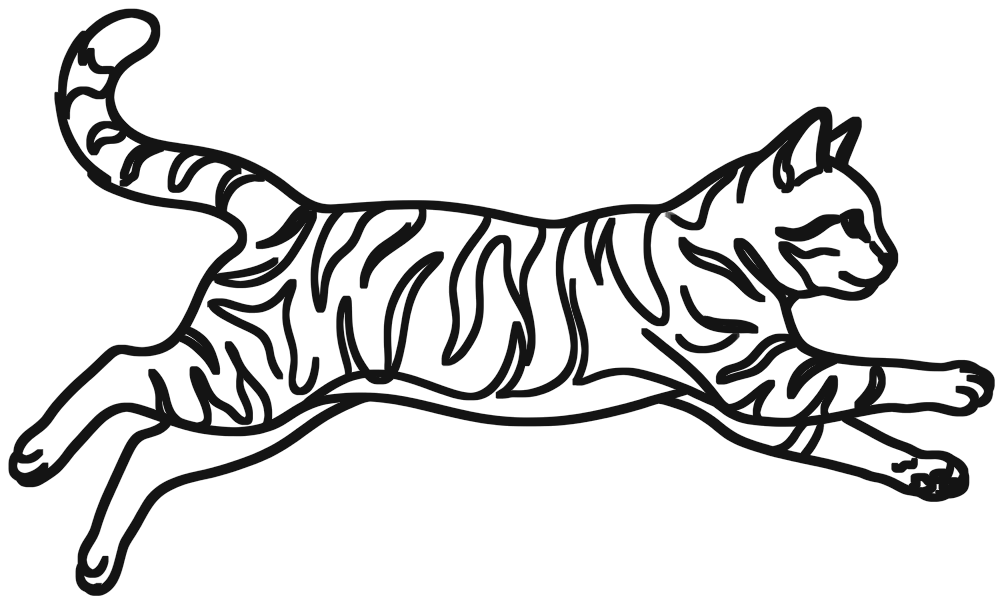
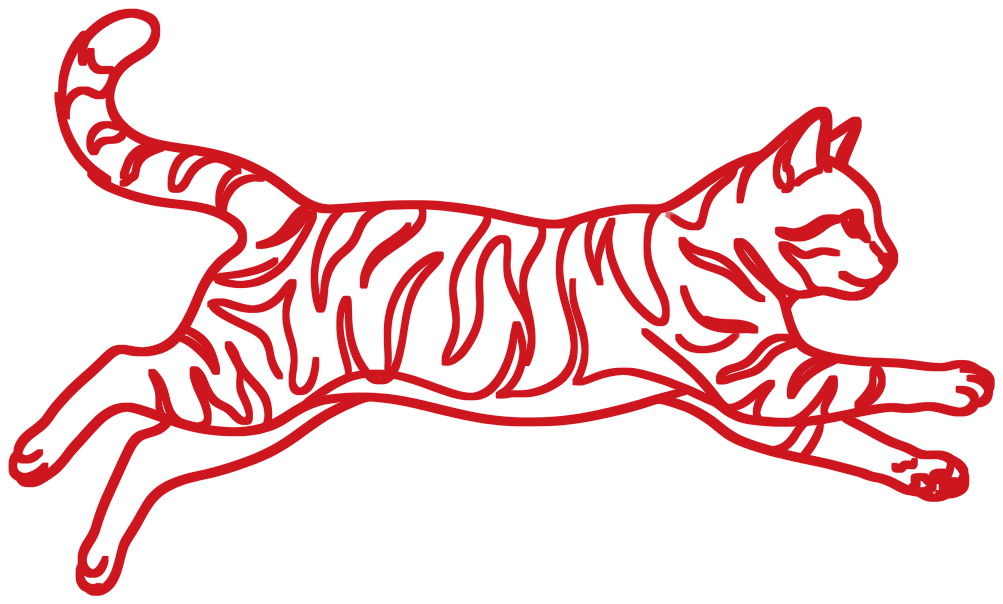
v130: two red drawings either side of the welcome card
- Keepy-ups on the left, shoulder press on the right
- FIFA and the Bullet removed
- Strokes back to the cloud's red

Claude-Session: https://claude.ai/code/session_013G15fzCMwgXvJexXZMdXm4

Changed region(s): [[0.0, 0.0, 1.0, 0.9834]]

diff --git a/index.html b/index.html
@@ -24,11 +24,11 @@
   <meta property="og:image:height" content="630">
   <meta property="og:image:alt" content="Sijo Joseph, product, UX and AI designer, with four case study covers">
   <meta name="twitter:card" content="summary_large_image">
-  <script src="update.js?v=129"></script>
-  <script src="gate.js?v=129"></script>
-  <link href="fonts/fonts.css?v=129" rel="stylesheet">
-  <link rel="stylesheet" href="styles.css?v=129">
-  <link rel="stylesheet" href="reader.css?v=129">
+  <script src="update.js?v=130"></script>
+  <script src="gate.js?v=130"></script>
+  <link href="fonts/fonts.css?v=130" rel="stylesheet">
+  <link rel="stylesheet" href="styles.css?v=130">
+  <link rel="stylesheet" href="reader.css?v=130">
   <script type="importmap">
   {
     "imports": {
@@ -42,10 +42,10 @@
   <link rel="modulepreload" href="vendor/three/examples/jsm/loaders/GLTFLoader.js">
   <link rel="modulepreload" href="vendor/three/examples/jsm/controls/OrbitControls.js">
   <link rel="modulepreload" href="vendor/three/examples/jsm/libs/meshopt_decoder.module.js">
-  <link rel="modulepreload" href="main.js?v=129">
-  <link rel="modulepreload" href="sound.js?v=129">
-  <link rel="modulepreload" href="room-utils.js?v=129">
-  <link rel="modulepreload" href="cat.js?v=129">
+  <link rel="modulepreload" href="main.js?v=130">
+  <link rel="modulepreload" href="sound.js?v=130">
+  <link rel="modulepreload" href="room-utils.js?v=130">
+  <link rel="modulepreload" href="cat.js?v=130">
   <script type="application/ld+json">{"@context": "https://schema.org", "@type": "Person", "name": "Sijo Joseph", "url": "https://sijo.work/", "jobTitle": "Product, UX and AI designer", "alumniOf": {"@type": "CollegeOrUniversity", "name": "National Institute of Design, Bengaluru"}, "address": {"@type": "PostalAddress", "addressLocality": "Bengaluru", "addressCountry": "IN"}, "sameAs": ["https://www.linkedin.com/in/sijodesign", "https://github.com/sijojoseph7509-a11y"], "knowsAbout": ["Product design", "UX design", "Interaction design", "Information design", "Wayfinding", "Brand identity", "AI-assisted prototyping"]}</script>
 </head>
 <body>
@@ -88,34 +88,19 @@
 
   <!-- Loader -->
   <div class="loader" id="loader">
-    <!-- Sijo and Shea in near-black ink (Figma AI, line only) with red accents that echo the cloud's handwriting, animated in CSS around the welcome card -->
+    <!-- Sijo (keepy-ups left, shoulder press right) and Shea, in the red ink of the cloud's handwriting (Figma AI, line only), animated in CSS around the welcome card -->
     <div class="wl-ill wl-juggle" aria-hidden="true">
       <img src="assets/welcome/juggle.webp" alt="" width="707" height="1104" decoding="async">
-      <svg viewBox="0 0 707 1104"><g class="wl-kick" stroke="#CE161E" stroke-width="6" stroke-linecap="round"><path d="M512,690 l-26,6 M518,714 l-28,14 M622,686 l26,-8"/></g><g class="wl-ball"><g class="wl-spin"><circle r="54" fill="none" stroke="#141414" stroke-width="6.8"/><path d="M0,-18.9 L18.0,-5.8 L11.1,15.3 L-11.1,15.3 L-18.0,-5.8 Z" fill="#CE161E"/><path d="M0,-18.9 V-49.7 M18.0,-5.8 L47.0,-15.1 M11.1,15.3 L28.6,41.6 M-11.1,15.3 L-28.6,41.6 M-18.0,-5.8 L-47.0,-15.1" stroke="#141414" stroke-width="6.0" stroke-linecap="round" fill="none"/></g></g></svg>
+      <svg viewBox="0 0 707 1104"><g class="wl-kick" stroke="#CE161E" stroke-width="6" stroke-linecap="round"><path d="M512,690 l-26,6 M518,714 l-28,14 M622,686 l26,-8"/></g><g class="wl-ball"><g class="wl-spin"><circle r="54" fill="none" stroke="#CE161E" stroke-width="6.8"/><path d="M0,-18.9 L18.0,-5.8 L11.1,15.3 L-11.1,15.3 L-18.0,-5.8 Z" fill="#CE161E"/><path d="M0,-18.9 V-49.7 M18.0,-5.8 L47.0,-15.1 M11.1,15.3 L28.6,41.6 M-11.1,15.3 L-28.6,41.6 M-18.0,-5.8 L-47.0,-15.1" stroke="#CE161E" stroke-width="6.0" stroke-linecap="round" fill="none"/></g></g></svg>
     </div>
     <div class="wl-ill wl-lift" aria-hidden="true">
       <img src="assets/welcome/lift.webp" alt="" width="516" height="1148" decoding="async">
       <svg viewBox="0 0 516 1148"><g class="wl-effort" stroke="#CE161E" stroke-width="6" stroke-linecap="round" fill="none"><path d="M20,40 l-22,-14 M14,78 l-26,0 M480,70 l24,-14 M488,108 l26,0"/></g>
         <path class="wl-sweat" d="M352,190 q-12,20 0,26 q12,-6 0,-26 Z" fill="none" stroke="#CE161E" stroke-width="5"/>
-        <text class="wl-reps" x="-230" y="640"><tspan class="r1">8</tspan><tspan class="r2" x="-230">9</tspan><tspan class="r3" x="-230">10!</tspan></text></svg>
-    </div>
-    <div class="wl-ill wl-fifa" aria-hidden="true">
-      <img src="assets/welcome/fifa.webp" alt="" width="1192" height="729" decoding="async">
-      <svg viewBox="0 0 1192 729"><g fill="none" stroke="#141414" stroke-width="4" stroke-linejoin="round"><path d="M116,45 L337,111 L337,377 L116,465 Z"/><path d="M226.5,78.0 L226.5,421.0"/><path d="M248.0,248.4 L247.3,259.5 L245.2,270.0 L241.7,279.3 L237.3,286.7 L232.1,291.8 L226.5,294.1 L220.9,293.3 L215.7,289.5 L211.3,282.8 L207.8,273.6 L205.7,262.6 L205.0,250.6 L205.7,238.5 L207.8,227.3 L211.3,217.8 L215.7,210.6 L220.9,206.2 L226.5,204.9 L232.1,206.6 L237.3,211.2 L241.7,218.2 L245.2,227.1 L247.3,237.4 Z"/><path d="M116.0,162.6 L149.2,166.0 L149.2,340.7 L116.0,347.4"/><path d="M337.0,185.5 L303.9,182.0 L303.9,309.3 L337.0,302.5"/><path d="M337.0,222.7 L345.8,222.8 L345.8,264.3 L337.0,265.3"/></g>
-        <circle class="wl-p wl-def" r="13" fill="none" stroke="#141414" stroke-width="5"/><circle class="wl-p wl-gk" r="13" fill="none" stroke="#141414" stroke-width="5"/>
-        <circle class="wl-p wl-att" r="13.5" fill="#CE161E"/><circle class="wl-p wl-tvball" r="8" fill="#CE161E"/>
-        <text class="wl-goal" x="380" y="120" transform="rotate(-9 480 90)">GOAL!</text>
-        <g class="wl-buzz" stroke="#CE161E" stroke-width="7" stroke-linecap="round"><path d="M655,300 l-24,-18 M644,340 l-30,2 M655,378 l-22,18"/></g></svg>
-    </div>
-    <div class="wl-ill wl-bullet" aria-hidden="true">
-      <img src="assets/welcome/bullet.webp" alt="" width="963" height="775" decoding="async">
-      <svg viewBox="0 0 963 775"><g fill="none" stroke="#141414" stroke-width="6" stroke-linecap="round"><circle class="wl-tread" cx="158" cy="613" r="128" stroke-dasharray="8 52"/><circle class="wl-tread" cx="753" cy="621" r="124" stroke-dasharray="8 52"/></g>
-        <path class="wl-road" d="M-60,768 H1030" stroke="#141414" stroke-width="6" stroke-linecap="round" stroke-dasharray="70 70"/>
-        <g fill="none" stroke="#CE161E" stroke-width="6"><circle class="wl-puff p1" cx="950" cy="664" r="26"/><circle class="wl-puff p2" cx="950" cy="664" r="20"/><circle class="wl-puff p3" cx="950" cy="664" r="32"/></g>
-        <text class="wl-dug" x="760" y="520">dug dug dug</text></svg>
+        <text class="wl-reps" x="560" y="640"><tspan class="r1">8</tspan><tspan class="r2" x="560">9</tspan><tspan class="r3" x="560">10!</tspan></text></svg>
     </div>
     <div class="wl-shea" aria-hidden="true">
-      <div class="wl-shea-ball"><svg viewBox="-46 -46 92 92"><g class="wl-spin"><circle r="40" fill="none" stroke="#141414" stroke-width="5.0"/><path d="M0,-14.0 L13.3,-4.3 L8.2,11.3 L-8.2,11.3 L-13.3,-4.3 Z" fill="#CE161E"/><path d="M0,-14.0 V-36.8 M13.3,-4.3 L34.8,-11.2 M8.2,11.3 L21.2,30.8 M-8.2,11.3 L-21.2,30.8 M-13.3,-4.3 L-34.8,-11.2" stroke="#141414" stroke-width="4.4" stroke-linecap="round" fill="none"/></g></svg></div>
+      <div class="wl-shea-ball"><svg viewBox="-46 -46 92 92"><g class="wl-spin"><circle r="40" fill="none" stroke="#CE161E" stroke-width="5.0"/><path d="M0,-14.0 L13.3,-4.3 L8.2,11.3 L-8.2,11.3 L-13.3,-4.3 Z" fill="#CE161E"/><path d="M0,-14.0 V-36.8 M13.3,-4.3 L34.8,-11.2 M8.2,11.3 L21.2,30.8 M-8.2,11.3 L-21.2,30.8 M-13.3,-4.3 L-34.8,-11.2" stroke="#CE161E" stroke-width="4.4" stroke-linecap="round" fill="none"/></g></svg></div>
       <img class="wl-shea-cat" src="assets/welcome/shea.webp" alt="" width="1003" height="604" decoding="async">
     </div>
     <div class="loader-inner">
@@ -219,11 +204,11 @@
     </div>
   </noscript>
 
-  <script src="content.js?v=129"></script>
-  <script src="track.js?v=129"></script>
-  <script src="icons.js?v=129"></script>
-  <script src="os.js?v=129"></script>
-  <script src="music.js?v=129"></script>
-  <script type="module" src="main.js?v=129"></script>
+  <script src="content.js?v=130"></script>
+  <script src="track.js?v=130"></script>
+  <script src="icons.js?v=130"></script>
+  <script src="os.js?v=130"></script>
+  <script src="music.js?v=130"></script>
+  <script type="module" src="main.js?v=130"></script>
 </body>
 </html>

diff --git a/styles.css b/styles.css
@@ -668,7 +668,7 @@ button.card .cover::before, button.card .cover::after { display: none; }   /* re
   .tool-ico { width: 54px; height: 54px; border-radius: 14px; } .tool-ico svg { width: 28px; height: 28px; }
 }
 /* ───────── Welcome screen v125: the sky with "talent ain't enough", the dark card over it, and around it Sijo (keepy-ups, a shoulder press,
-   FIFA, the Bullet) and Shea chasing a ball round the screen: near-black ink (it reads on both the blue and the cloud), red only on the moving accents ───────── */
+   with Shea chasing a ball round the screen, all in the red ink of the cloud's handwriting ───────── */
 .loader { background: #2f63b0; }
 .loader::before { content: ""; position: fixed; inset: 0; background: #2f63b0 url(assets/welcome/sky.webp) center 50% / cover no-repeat; }
 @media (max-width: 760px) { .loader::before { background-image: url(assets/welcome/sky-sm.webp); } }
@@ -690,15 +690,13 @@ button.card .cover::before, button.card .cover::after { display: none; }   /* re
 .loader.ready .intro-go { margin-top: 30px; }
 .loader.ready .intro-quiet { margin-top: 14px; }
 
-/* the drawings: two columns either side of the card, staggered so each has air around it */
+/* the drawings: keepy-ups on the left of the card, the shoulder press on the right */
 .wl-ill { position: absolute; z-index: 1; pointer-events: none; }
 .wl-ill img, .wl-ill svg { display: block; width: 100%; height: auto; }
 .wl-ill svg { position: absolute; inset: 0; height: 100%; overflow: visible; }
-.wl-ill text { font-family: "Caveat", "Comic Sans MS", cursive; font-weight: 700; fill: #CE161E; paint-order: stroke; stroke: #141414; stroke-linejoin: round; }
-.wl-juggle { left: 5vw; top: 14vh; height: 38vh; aspect-ratio: 707 / 1104; }
-.wl-lift { left: 19.5vw; top: 50vh; height: 36vh; aspect-ratio: 516 / 1148; }
-.wl-fifa { right: 3vw; top: 13vh; width: 25vw; aspect-ratio: 1192 / 729; }
-.wl-bullet { right: 5vw; top: 50vh; width: 21vw; aspect-ratio: 963 / 775; }
+.wl-ill text { font-family: "Caveat", "Comic Sans MS", cursive; font-weight: 700; fill: #CE161E; paint-order: stroke; stroke: none; }
+.wl-juggle { left: 7vw; top: 50%; height: min(58vh, 600px); aspect-ratio: 707 / 1104; transform: translateY(-48%); }
+.wl-lift { right: 9vw; top: 50%; height: min(58vh, 600px); aspect-ratio: 516 / 1148; transform: translateY(-48%); }
 .wl-ill img { animation: wlBoil .5s steps(1) infinite; }
 @keyframes wlBoil { 0% { translate: 0 0; } 33% { translate: .4px -.3px; } 66% { translate: -.3px .3px; } }
 
@@ -722,30 +720,6 @@ button.card .cover::before, button.card .cover::after { display: none; }   /* re
 @keyframes wlR2 { 0%, 41% { opacity: 0; } 45%, 63% { opacity: 1; } 67%, 100% { opacity: 0; } }
 @keyframes wlR3 { 0%, 74% { opacity: 0; } 78%, 96% { opacity: 1; } 100% { opacity: 0; } }
 
-/* FIFA: a little match plays on the TV; the shot goes in, GOAL!, the controller buzzes, he jumps */
-.wl-tvball { animation: wlBall 6s ease-in-out infinite; } .wl-att { animation: wlAtt 6s ease-in-out infinite; }
-.wl-def { animation: wlDef 6s ease-in-out infinite; } .wl-gk { animation: wlGk 6s ease-in-out infinite; }
-.wl-goal { font-size: 116px; stroke-width: 7px; opacity: 0; transform-box: fill-box; transform-origin: center; animation: wlGoal 6s infinite; }
-@keyframes wlGoal { 0%, 61% { opacity: 0; scale: .4; } 65% { opacity: 1; scale: 1.18; } 69%, 90% { opacity: 1; scale: 1; } 94%, 100% { opacity: 0; scale: 1; } }
-.wl-buzz { opacity: 0; animation: wlBuzz 6s infinite; } @keyframes wlBuzz { 0%, 61%, 86%, 100% { opacity: 0; } 63%, 67%, 71%, 75%, 79% { opacity: 1; } 65%, 69%, 73%, 77% { opacity: .2; } }
-.wl-fifa img { animation: wlCheer 6s infinite, wlBoil .5s steps(1) infinite; transform-origin: 75% 100%; }
-@keyframes wlCheer { 0%, 61%, 82%, 100% { transform: none; } 65% { transform: translateY(-8px) rotate(.6deg); } 69% { transform: translateY(-2px); } 73% { transform: translateY(-7px) rotate(-.4deg); } 77% { transform: none; } }
-@keyframes wlBall { 0% { transform: translate(226.5px, 249.5px); } 15% { transform: translate(248.6px, 202.5px); } 32% { transform: translate(270.7px, 284.8px); } 50% { transform: translate(301.6px, 228.3px); } 62% { transform: translate(339.2px, 243.9px); } 86% { transform: translate(339.2px, 243.9px); } 87% { transform: translate(226.5px, 249.5px); } 100% { transform: translate(226.5px, 249.5px); } }
-@keyframes wlAtt { 0% { transform: translate(213.2px, 257.2px); } 15% { transform: translate(237.6px, 215.4px); } 32% { transform: translate(259.6px, 279.8px); } 50% { transform: translate(290.6px, 234.4px); } 62% { transform: translate(306.1px, 245.5px); } 86% { transform: translate(306.1px, 245.5px); } 87% { transform: translate(213.2px, 257.2px); } 100% { transform: translate(213.2px, 257.2px); } }
-@keyframes wlDef { 0% { transform: translate(275.1px, 185.3px); } 20% { transform: translate(279.5px, 231.6px); } 40% { transform: translate(292.8px, 261.0px); } 55% { transform: translate(314.9px, 273.2px); } 86% { transform: translate(314.9px, 278.9px); } 87% { transform: translate(275.1px, 185.3px); } 100% { transform: translate(275.1px, 185.3px); } }
-@keyframes wlGk { 0% { transform: translate(330.4px, 244.3px); } 45% { transform: translate(330.4px, 228.1px); } 58% { transform: translate(330.4px, 287.6px); } 86% { transform: translate(330.4px, 287.6px); } 87% { transform: translate(330.4px, 244.3px); } 100% { transform: translate(330.4px, 244.3px); } }
-
-/* the Bullet: the engine's thump shakes the bike, the tread spins, the road streams back, smoke puffs and "dug dug dug" */
-.wl-bullet img { animation: wlThump .24s steps(2) infinite, wlBoil .5s steps(1) infinite; }
-@keyframes wlThump { 0% { transform: translateY(0); } 50% { transform: translateY(-2px); } }
-.wl-tread { transform-box: fill-box; transform-origin: center; animation: wlTread .5s linear infinite; } @keyframes wlTread { to { rotate: -360deg; } }
-.wl-road { animation: wlRoad .5s linear infinite; } @keyframes wlRoad { to { stroke-dashoffset: -140; } }
-.wl-puff { opacity: 0; transform-box: fill-box; transform-origin: center; animation: wlPuff 1.8s ease-out infinite; }
-.wl-puff.p2 { animation-delay: .6s; } .wl-puff.p3 { animation-delay: 1.2s; }
-@keyframes wlPuff { 0% { opacity: .9; transform: translate(0, 0) scale(.5); } 100% { opacity: 0; transform: translate(150px, -60px) scale(1.8); } }
-.wl-dug { font-size: 66px; stroke-width: 5px; opacity: 0; animation: wlDug 3.6s infinite; }
-@keyframes wlDug { 0%, 10% { opacity: 0; transform: translate(0, 10px); } 20%, 60% { opacity: 1; transform: none; } 75%, 100% { opacity: 0; transform: translate(40px, -10px); } }
-
 /* Shea chases a ball round the screen: along the bottom to the right, then back along the top to the left */
 .wl-shea { position: fixed; inset: 0; z-index: 2; pointer-events: none; overflow: hidden; }
 .wl-shea-cat, .wl-shea-ball { position: absolute; left: 0; top: 0; }
@@ -767,8 +741,8 @@ button.card .cover::before, button.card .cover::after { display: none; }   /* re
 @media (max-width: 1180px), (max-height: 640px) { .wl-ill { display: none; } }
 @media (max-height: 460px) { .wl-shea { display: none; } }
 @media (prefers-reduced-motion: reduce) {
-  .wl-ill img, .wl-ball, .wl-spin, .wl-kick, .wl-tvball, .wl-att, .wl-def, .wl-gk, .wl-goal, .wl-buzz, .wl-effort, .wl-sweat, .wl-reps tspan, .wl-tread, .wl-road, .wl-puff, .wl-dug { animation: none; }
-  .wl-ball { transform: translate(550px, 360px); } .wl-tvball { transform: translate(172px, 300px); } .wl-goal, .wl-dug, .wl-reps .r3 { opacity: 1; } .wl-shea { display: none; } }
+  .wl-ill img, .wl-ball, .wl-spin, .wl-kick, .wl-effort, .wl-sweat, .wl-reps tspan { animation: none; }
+  .wl-ball { transform: translate(550px, 360px); } .wl-reps .r3 { opacity: 1; } .wl-shea { display: none; } }
 @media (max-height: 520px) {
   .loader { padding: 10px; }
   .loader .loader-inner, .loader.ready .loader-inner { padding: 16px 32px 12px; border-radius: 22px; }

diff --git a/main.js b/main.js
@@ -5,8 +5,8 @@ import { RoomEnvironment } from "three/addons/environments/RoomEnvironment.js";
 import { GLTFLoader } from "three/addons/loaders/GLTFLoader.js";
 import { MeshoptDecoder } from "three/addons/libs/meshopt_decoder.module.js";
 import { mergeGeometries } from "three/addons/utils/BufferGeometryUtils.js";
-import { Sound } from "./sound.js?v=129";
-import { sharpen, rr, bezier, tileNoise, wrapText } from "./room-utils.js?v=129";
+import { Sound } from "./sound.js?v=130";
+import { sharpen, rr, bezier, tileNoise, wrapText } from "./room-utils.js?v=130";
 
 const S = window.SITE;
 const TOUCH = matchMedia("(pointer: coarse)").matches;   // phones & tablets: say "tap", no hover effects

diff --git a/HANDOVER.md b/HANDOVER.md
@@ -404,6 +404,7 @@ explorations · sketches · side projects · ideas"), poster text, terminal mess
 - **v127:** Welcome drawings made easier to see on the sky: thicker lines (alpha dilated 5px), a brighter red (#CE161E), and a thin white keyline plus soft shadow on every drawing and overlay (CSS drop-shadows). FIFA and the Bullet redrawn at a medium level of detail (Figma nodes 13:2 and 12:2, bike mirrored); new TV screen corners (116,45) (337,111) (337,377) (116,465) in fifa.webp; Bullet wheel centres (158,613) and (753,621).
 - **v128:** Welcome drawings recoloured to near-black ink (#141414); red sky and red ink had about 1.3:1 contrast on the middle sky, black has 4.2:1 there and 11.5:1 on the cloud. Red (#CE161E) is kept only for the moving accents (ball patches, kick and effort lines, sweat, GOAL!, 8 9 10!, controller buzz, smoke, dug dug dug); the accent text has a thin black outline. The white keyline from v127 is removed.
 - **v129:** Welcome card: the name under the logo is removed (the logo carries role=img, aria-label "Sijo Joseph"). Spacing rebuilt with explicit margins instead of the old negative-margin offsets: logo 68px, hairline +26, greeting +18, welcome +34, tips +22, Enter +30, sound link +14; card 440px wide, padding 48/48/34. Short and phone screens keep the same order, tighter.
+- **v130:** Welcome drawings cut to two: keepy-ups on the left of the card, the shoulder press on the right (both min(58vh, 600px) tall, vertically centred); FIFA and the Bullet removed (assets deleted, still in Figma as nodes 13:2 and 12:2). Strokes back to the cloud's red (#CE161E) everywhere, overlays and Shea included; accent text without an outline. Shea still runs her laps.
 - Work cards and About thumbnails use `case.coverSlide` when a project gives one (Syntra: `fx/cover-slide.webp`, 1440 × 900), otherwise the first section.
 - Desk folders: tab width now shares the edge (`TAB_W`), so 4+ projects never overlap.
 - ⚠ Testing note (14 Oct 2026): another session had an http-server on 127.0.0.1:4322 serving the `.claude/worktrees/goofy-solomon-8f688e` copy — always check `lsof -iTCP:<port>` or use a fresh port before trusting QA results.
